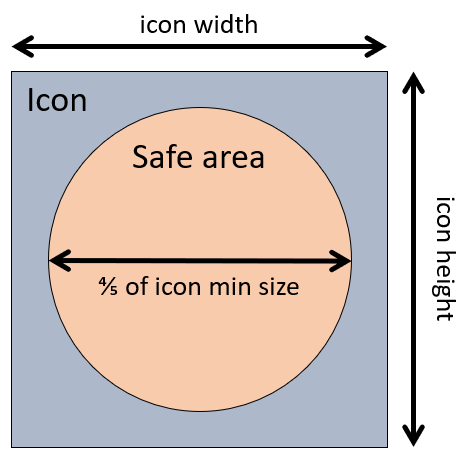
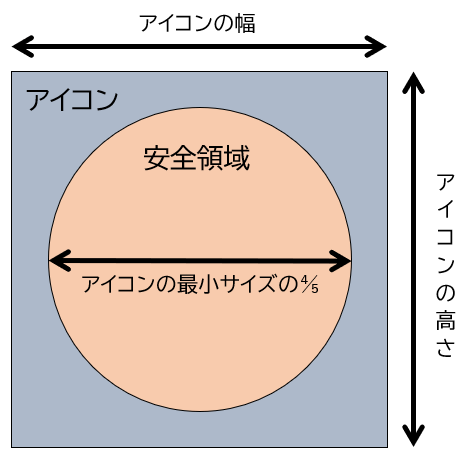
2025/02/22 時点の英語版に同期

diff --git a/files/ja/web/progressive_web_apps/how_to/define_app_icons/index.md b/files/ja/web/progressive_web_apps/how_to/define_app_icons/index.md
@@ -1,48 +1,49 @@
 ---
-title: Define your app icons
+title: アプリのアイコンを定義する
 slug: Web/Progressive_web_apps/How_to/Define_app_icons
-page-type: how-to
+l10n:
+  sourceCommit: 05187b0fecf39b9176d4a101623589309cf44dd0
 ---
 
 {{PWASidebar}}
 
-[Progressive Web Apps (PWAs)](/en-US/docs/Web/Progressive_web_apps) can be installed on devices just like other apps. Once a PWA is installed, its app icon appears on the device's home screen, dock, taskbar, or any other place where operating system native apps normally appear.
+[プログレッシブウェブアプリ (PWA)](/ja/docs/Web/Progressive_web_apps) は、他のアプリと同じように端末にインストールできます。PWA をインストールすると、そのアプリアイコンが端末のホーム画面、ドック、タスクバー、またはオペレーティングシステムのネイティブアプリが通常表示される他の場所に表示されます。
 
-For example, on Windows, the taskbar can contain icons for both native and PWA apps side by side:
+例えば、 Windows では、タスクバーにネイティブアプリと PWA アプリのアイコンを並べて表示できます。
 
-![The taskbar on Windows, showing the usual Windows icons, and then icons for Firefox and Word, which are native apps, but also icons for Spotify and PWAmp, which are PWAs](./windows-taskbar.png)
+![Windows のタスクバーには、通常の Windows アイコンが表示され、その下に Firefox と Word のアイコン（ネイティブアプリ）が表示されます。さらに、 PWA である Spotify と PWAmp のアイコンも表示されています。](./windows-taskbar.png)
 
-When creating a PWA, you can define your own set of icons to be used when the app is installed on a device. This article explains how to define your own app icons, which icon sizes to create, and how to make your icons support masking.
+PWA を作成する際、端末にアプリがインストールされた際に使用される独自のアイコンのセットを定義できます。この記事では、独自のアプリアイコンを定義する方法、作成するアイコンのサイズ、およびアイコンをマスク機能に対応させる方法について説明します。
 
 > [!NOTE]
-> The PWA app icon is not the same as the {{glossary("favicon")}} image, which is displayed in places like the browser's address bar. PWAs can have both a favicon and an app icon. To learn more about favicons, see [Adding custom icons to your site](/en-US/docs/Learn_web_development/Core/Structuring_content/Webpage_metadata#adding_custom_icons_to_your_site).
+> PWA のアプリアイコンは、ブラウザーのアドレスバーなどに表示される{{glossary("favicon", "ファビコン")}}画像とは異なります。 PWA は、ファビコンとアプリアイコンの両方を設定できます。ファビコンについて詳しくは、「[サイトに独自のアイコンを追加](/ja/docs/Learn_web_development/Core/Structuring_content/Webpage_metadata#サイトに自分の好きなアイコンを追加)」を参照してください。
 
-## Design your icon
+## アイコンをデザインする
 
-The first step in defining your app icon is to design it.
+アプリアイコンを定義する最初のステップは、そのデザインを作成することです。
 
-Most users recognize applications by their icons. Icons appear in many places through the operating system, including the home screen, taskbar, app launcher, or setting panels. Make sure your users can easily find your app by making its icon both visually appealing, and representative of your application.
+ほとんどのユーザーは、アプリケーションをアイコンで認識します。アイコンは、ホーム画面、タスクバー、アプリランチャー、設定パネルなど、オペレーティングシステム内のさまざまな場所に表示されます。ユーザーがアプリケーションを簡単に探せるように、アイコンを視覚的に魅力的で、かつアプリケーションを適切に表すものにするようにしてください。
 
-The image should have a transparent background so it can be displayed on a variety of backgrounds. It should be at least 1024x1024 pixels, or scalable to that size, as this is the largest size your icon may be displayed at. You may also want to create icon versions with fewer details, to be used in places where the icon is displayed at smaller sizes.
+画像の背景は透明にしましょう。これにより、さまざまな背景の上に表示することができます。サイズは 1024x1024 ピクセル以上、またはそのサイズに拡大可能なものにしましょう。これは、アイコンが最大で表示されるサイズです。また、アイコンが小さなサイズで表示される場合に使用するため、詳細を省いたバージョンを作成することをおすすめします。
 
-Designing your icon as an SVG file is a good idea, as this will allow it to be scaled to any size without loss of quality.
+アイコンを SVG ファイルでデザインするのもいいでしょう。そうすれば、品質を損なうことなく任意のサイズに拡大縮小することが可能です。
 
-## Reference your icons in the web app manifest
+## アイコンをウェブアプリマニフェストから参照する
 
-Use the [`icons`](/en-US/docs/Web/Progressive_web_apps/Manifest/Reference/icons) web app manifest member to define a set of icons for your PWA.
+PWA 用のアイコンセットを定義するには、ウェブアプリマニフェストの [`icons`](/ja/docs/Web/Progressive_web_apps/Manifest/Reference/icons) セクションを使用します。
 
-As described in [Create the necessary icon sizes](#create_the_necessary_icon_sizes), you should create multiple versions of your icon to ensure it appears correctly in all the places where it's used. This is why the `icons` member is an array of objects, each of which represents an icon, with its own size, type, and purpose. Each icon object has the following properties:
+「[必要なサイズのアイコンを作成する](#必要なサイズのアイコンを作成する)」で説明しますが、アイコンが使用されるすべての場所で正しく表示されるように、複数のバージョンのアイコンを作成する必要があります。このため、 `icons` メンバーは、それぞれ独自のサイズ、タイプ、目的を持つアイコンを表すオブジェクトの配列になっています。各アイコンオブジェクトには、次のプロパティがあります。
 
 - `src`
-  - : The URL of the icon image file.
+  - : アイコン画像ファイルの URL。
 - `sizes`
-  - : The sizes the icon can be used for.
+  - : このアイコンを使うサイズ。
 - `type`
-  - : The {{Glossary("MIME type")}} of the image file which the operating system can use to quickly ignore images it does not support.
+  - : 画像ファイルの {{Glossary("MIME type", "MIME タイプ")}}。これは、オペレーティングシステムが、対応していない画像を迅速に無視するために使用されます。
 - `purpose`
-  - : The OS-specific purpose of the image.
+  - : この画像の OS 固有の使用目的。
 
-For example, the following web app manifest defines five PNG icons, each with a different size:
+例えば、次のウェブアプリマニフェストでは、サイズが異なる 5 つの PNG アイコンが定義されています。
 
 ```json
 {
@@ -79,21 +80,21 @@ For example, the following web app manifest defines five PNG icons, each with a 
 }
 ```
 
-## Create the necessary icon sizes
+## 必要なサイズのアイコンを作成する
 
-Various operating systems use different icon sizes in different places and for different device capabilities. It's important to create multiple versions of your icon so it appears correctly in all the places where it's used.
+多くのオペレーティングシステムでは、場所や機器の能力が異なると、異なるサイズのアイコンを使用します。アイコンを正しく表示するため、使用されるすべての場所で適切に表示されるように、複数のバージョンを作成することが重要です。
 
-For example, Windows can display your app icon as a 44x44 pixels image in the taskbar, or as a 150x150 pixels image in the start menu. Use the links below for more information about the icon sizes used by different operating systems and tips for creating effective icons:
+例えば、 Windows では、タスクバーにアプリアイコンを 44x44 ピクセルの画像として表示したり、スタートメニューに 150x150 ピクセルの画像として表示したりできます。異なるオペレーティングシステムで利用されるアイコンのサイズに関する詳細情報や、効果的なアイコンの作成に関するヒントについては、以下のリンクを参照してください。
 
-- For Windows, see [Define icons and a theme color](https://learn.microsoft.com/en-us/microsoft-edge/progressive-web-apps-chromium/how-to/icon-theme-color) on learn.microsoft.com.
-- For Android, see [Google Play icon design specifications](https://developer.android.com/distribute/google-play/resources/icon-design-specifications) on developer.android.com.
-- For iOS and macOS, see [App icons](https://developer.apple.com/design/human-interface-guidelines/app-icons#App-icon-sizes) on developer.apple.com.
+- Windows については、[アイコンとテーマの色を定義する](https://learn.microsoft.com/ja-jp/microsoft-edge/progressive-web-apps-chromium/how-to/icon-theme-color) (learn.microsoft.com) を参照してください。
+- Android の場合、 [Google Play アイコンのデザイン仕様](https://developer.android.com/distribute/google-play/resources/icon-design-specifications) (developer.android.com) を参照してください。
+- iOS や macOS については、 [App icons](https://developer.apple.com/design/human-interface-guidelines/app-icons#App-icon-sizes) (developer.apple.com) を参照してください。
 
-The sizes at which your icon is displayed depend on the operating system and may change over time. It's best to test your icon on all the devices and operating systems you want to support, and generate the sizes and image types that lead to the best results. You can also use a tool like [PWA Image Generator](https://www.pwabuilder.com/imageGenerator) to generate the necessary icon sizes for you from a single high-definition image.
+アイコンの表示サイズは、オペレーティングシステムによって異なり、時間経過とともに変更される場合があります。対応するすべての端末とオペレーティングシステムでアイコンをテストし、最適な結果を得るためのサイズと画像形式を生成することをおすすめします。また、 [PWA Image Generator](https://www.pwabuilder.com/imageGenerator) のようなツールを使用すると、単一の高解像度画像から必要なサイズのアイコンを生成できます。
 
-Note that some operating systems support [SVG](/en-US/docs/Web/SVG) icons which can help reduce the number of images you need to create since SVG can be scaled to any size automatically. If your SVG icon doesn't scale down to small sizes nicely, creating additional icons with fewer details and less complexity may be necessary. To support all OSs and small sizes, create PNG versions of your icon as well.
+一部のオペレーティングシステムでは、 [SVG](/ja/docs/Web/SVG) アイコンが対応しています。 SVG は自動的に任意のサイズに拡大縮小できるため、作成する必要のある画像の数を削減できます。ただし、 SVG アイコンが小さなサイズに適切に縮小されない場合は、細部を省略し、簡略化したアイコンを追加で作成する必要がある場合があります。すべてのオペレーティングシステムと小さなサイズに対応するため、アイコンの PNG バージョンも作成してください。
 
-The following web app manifest example uses a WebP image for the small icon, an ICO image for medium size icons, and a scalable SVG image for higher resolution icons:
+以下のウェブアプリ マニフェストの例では、小さなアイコンに WebP 画像、中サイズのアイコンに ICO 画像、高解像度アイコンに拡大縮小可能な SVG 画像を使用しています。
 
 ```json
 {
@@ -118,19 +119,19 @@ The following web app manifest example uses a WebP image for the small icon, an 
 }
 ```
 
-Learn more about how to reference the various icon sizes in [Reference your icons in the web app manifest](#reference_your_icons_in_the_web_app_manifest).
+ウェブアプリの[マニフェストでアイコンを参照する方法](#アイコンをウェブアプリマニフェストから参照する)について、詳細はこちらをご覧ください。
 
-## Support masking
+## マスクの対応
 
-Depending on the operating system and the device capabilities, a mask may be applied to your icon to match a particular shape. Maskable icons are adaptive icons that can be displayed in a variety of shapes that operating systems provide. For example, on Android, app icons can have a circular mask.
+オペレーティングシステムと端末の機能に応じて、アイコンにマスクが適用され、特定の形状に合わせることができます。マスク可能なアイコンは、オペレーティングシステムが提供するさまざまな形状で表示できるアダプティブアイコンです。例えば、 Android では、アプリアイコンに円形のマスクを適用できます。
 
-Your PWA app icon should specifically support masking to look well integrated with operating systems that apply masks. Icons that do not support masking may appear cropped or smaller than expected. On Android, non-maskable icons are centered within the circular mask and given a white background, which may not look good with your icon.
+PWA アプリのアイコンは、マスクに対応している必要があります。これにより、マスクを採用しているオペレーティングシステムでは、統合された見た目を実現できます。マスクに対応していないアイコンは、切り取られたり、予想より小さく表示されたりする可能性があります。 Android では、マスク非対応のアイコンが円形のマスクの中心に配置され、白い背景が適用されます。これにより、アイコンの見た目が不自然になる可能性があります。
 
-The following image illustrates the difference between a maskable and a non-maskable icon on Android:
+以下の画像は、 Android におけるマスク可能なアイコンとマスク不可能なアイコンの違いを説明しています。
 
-![A non-maskable icon on the left, as a small square within the app icon circle. A maskable icon on the right, filling in the entire app icon circle](./maskable-icon-comparison.png)
+![左側にマスク不可のアイコンを、アプリアイコンの円形領域内に小さな四角形として表示します。右側にマスク可能なアイコンを、アプリアイコンの円形領域全体を埋めるように表示します。](./maskable-icon-comparison.png)
 
-To start making your app icon maskable, use the `purpose` property in the icon objects of your web app manifest, and set its value to `maskable`. For example:
+アプリアイコンをマスク可能にするには、ウェブアプリマニフェストのアイコンオブジェクト内の `purpose` プロパティを使用し、その値を `maskable` に設定します。例えば、
 
 ```json
 {
@@ -145,22 +146,22 @@ To start making your app icon maskable, use the `purpose` property in the icon o
 }
 ```
 
-Using the `purpose` property is just the last step in making your icon maskable. You need to start by making sure your icon looks well integrated with the host operating system by ensuring the important parts of the icon appear well within the mask's _safe zone_.
+`purpose` プロパティを使用することは、アイコンをマスク可能にするための最後のステップです。まず最初に、アイコンがホストオペレーティングシステムとよく統合されていることを確認する必要があります。そのためには、アイコンの重要な部分がマスクの「安全領域」内に適切に表示されるようにする必要があります。
 
-The safe zone is the area that's guaranteed to always be visible when the mask is applied and is defined as a circle which diameter is 80% of the icon's minimum dimension.
+安全領域は、マスクを適用した際に常に表示されることが保証された領域であり、アイコンの最小寸法（最小幅または最小高さ）の 80% を直径とする円として定義されます。
 
-![Illustration of the safe area within a maskable icon](./maskable-icon-safe-area.png)
+![マスク可能なアイコンの中のセーフゾーンの説明](./maskable-icon-safe-area.png)
 
-For example, if your icon is a square, make sure that the square is entirely visible within the safe zone and that its corners are not cut off.
+例えば、アイコンが正方形の場合、その正方形が安全領域内に完全に表示され、角が切れないようにしてください。
 
-Finally, give your maskable icon an opaque background color to fill the entire icon area.
+最後に、マスク可能なアイコンに不透明な背景色を適用し、アイコン領域全体を塗りつぶします。
 
-You can also use tools like [Maskable.app](https://maskable.app/) to preview how your icon will look when masked on different operating systems.
+[Maskable.app](https://maskable.app/) のようなツールを使用すると、様々なオペレーティングシステムでマスクされた際のアイコンの表示を確認できます。
 
-## See also
+## 関連情報
 
-- [`icons` manifest member](/en-US/docs/Web/Progressive_web_apps/Manifest/Reference/icons)
-- [App design](https://web.dev/learn/pwa/app-design#the_icon) on web.dev
-- [Adaptive icon support in PWAs with maskable icons](https://web.dev/articles/maskable-icon) on web.dev
-- [Define icons and a theme color](https://learn.microsoft.com/en-us/microsoft-edge/progressive-web-apps-chromium/how-to/icon-theme-color) on microsoft.com
-- [PWA Image Generator](https://www.pwabuilder.com/imageGenerator) on pwabuilder.com
+- [`icons` マニフェストメンバー](/ja/docs/Web/Progressive_web_apps/Manifest/Reference/icons)
+- [App design](https://web.dev/learn/pwa/app-design#the_icon) (web.dev)
+- [Adaptive icon support in PWAs with maskable icons](https://web.dev/articles/maskable-icon) (web.dev)
+- [アイコンとテーマの色を定義する](https://learn.microsoft.com/ja-jp/microsoft-edge/progressive-web-apps-chromium/how-to/icon-theme-color) (microsoft.com)
+- [PWA Image Generator](https://www.pwabuilder.com/imageGenerator) (pwabuilder.com)

diff --git a/files/ja/web/progressive_web_apps/how_to/expose_common_actions_as_shortcuts/index.md b/files/ja/web/progressive_web_apps/how_to/expose_common_actions_as_shortcuts/index.md
@@ -1,30 +1,31 @@
 ---
-title: Expose common app actions as shortcuts
+title: よくあるアプリ操作をショートカットとして表示する
 slug: Web/Progressive_web_apps/How_to/Expose_common_actions_as_shortcuts
-page-type: how-to
+l10n:
+  sourceCommit: e03b13c7e157ec7b7bb02a6c7c4854b862195905
 ---
 
 {{PWASidebar}}
 
-Many operating systems support showing shortcut menus, or jump-list, when the user right-clicks or long-presses an app icon. For example, on Windows, right-clicking on any pinned program in the taskbar shows a list of program-specific actions and recently opened files:
+多くのオペレーティングシステムには、ユーザーがアプリアイコンを右クリックまたは長押しした際に、ショートカットメニュー（またはジャンプリスト）を表示する機能があります。例えば Windows では、タスクバーにピン留めされたプログラムを右クリックすると、そのプログラム固有のアクションと最近開いたファイルのリストが表示されます。
 
-![The task bar in Windows, showing several pinned apps. The Firefox app icon was right-clicked, and the jump list is displayed, showing frequent tabs and common tasks](./jump-list.png)
+![Windows のタスクバーに、ピン留めされた複数のアプリが表示されています。 Firefox のアプリアイコンを右クリックすると、ジャンプリストが表示され、よく使用するタブと一般的なタスクが表示されます。](./jump-list.png)
 
-On Android, long-pressing an app icon also shows a list of common app actions:
+Androidでは、アプリアイコンを長押しすると、そのアプリでよく使用されるアクションのリストが表示されます。
 
-![The Android app launcher, showing an app icon that's been long-pressed. The shortcut menu is displayed, showing common actions](./android-shortcuts.png)
+![Android のアプリランチャーで、長押しされたアプリアイコンが表示されています。ショートカットメニューが表示され、一般的な操作が表示されています。](./android-shortcuts.png)
 
-[Progressive Web Apps (PWAs)](/en-US/docs/Web/Progressive_web_apps) can be installed on devices just like platform-native apps and, like their native counterparts, they can also define app shortcut menus to let users access common actions.
+[プログレッシブウェブアプリ (PWA)](/ja/docs/Web/Progressive_web_apps) は、プラットフォームのネイティブアプリと同様に端末にインストールでき、ネイティブアプリと同様に、ユーザーが共通のアクションにアクセスできるようにアプリのショートカットメニューを定義することもできます。
 
-Shortcuts are only displayed by right-clicking or long-pressing the app icon, meaning they're only available once the PWA is installed on the user's device. To learn how to make your PWA installable, see [making PWAs installable](/en-US/docs/Web/Progressive_web_apps/Guides/Making_PWAs_installable).
+ショートカットは、アプリアイコンを右クリックまたは長押しした際にのみ表示されます。つまり、 PWA がユーザーのデバイスにインストールされている場合のみ利用可能です。 PWA をインストール可能にする方法については、「[PWA をインストール可能にする](/ja/docs/Web/Progressive_web_apps/Guides/Making_PWAs_installable)」を参照してください。
 
-## Why use shortcuts?
+## なぜショートカットを使うのか
 
-Defining shortcuts for your PWA can make users more productive by letting them access your app's main actions directly from their home screen. Additionally, defining shortcuts can help make your PWA feel more platform-native and therefore more familiar to your users.
+PWA のショートカットを定義することで、ユーザーはホーム画面からアプリの主要なアクションに直接アクセスできるようになり、生産性が向上します。さらに、ショートカットを定義することで、 PWA がプラットフォームにネイティブに統合されたような感覚を与え、ユーザーにとってより親しみやすいものになります。
 
-## Define shortcuts in the web app manifest
+## ウェブアプリのマニフェストでショートカットを定義する
 
-To define shortcuts for your PWA, use the [`shortcuts`](/en-US/docs/Web/Progressive_web_apps/Manifest/Reference/shortcuts) member of the [web app manifest](/en-US/docs/Web/Progressive_web_apps/Manifest). This member is an array of objects defining each shortcut's name and URL, as well as the optional short name, description, and icons. For example, here's the web app manifest of a calendar app that defines two shortcuts:
+PWA のショートカットを定義するには、 [`shortcuts`](/ja/docs/Web/Progressive_web_apps/Manifest/Reference/shortcuts) メンバーを[ウェブアプリマニフェスト](/ja/docs/Web/Progressive_web_apps/Manifest)で使用します。このメンバーは、それぞれのショートカットの名前と URL、およびオプションで短縮名、説明、アイコンを定義するオブジェクトの配列です。例えば、以下のカレンダーアプリのウェブアプリマニフェストでは、 2 つのショートカットが定義されています。
 
 ```json
 {
@@ -51,24 +52,24 @@ To define shortcuts for your PWA, use the [`shortcuts`](/en-US/docs/Web/Progress
 }
 ```
 
-The most important properties of each shortcut object are:
+それぞれのショートカットオブジェクトの最も重要なプロパティは次のとおりです。
 
 - `name`
-  - : The name of the shortcut, which is displayed in the shortcut menu. Make sure to keep it short but also descriptive enough to let users know what the shortcut does.
+  - : ショートカットメニューに表示されるショートカットの名前です。ユーザーがショートカットの機能を理解できるように、短く簡潔ながら十分な説明を入れるようにしてください。
 - `url`
-  - : The URL to launch the PWA with when the user selects the shortcut. This URL can be absolute, in which case it should exist within the [scope](/en-US/docs/Web/Progressive_web_apps/Manifest/Reference/scope) of the web app manifest. The URL can also be relative, in which case it's resolved relative to the PWA's [start URL](/en-US/docs/Web/Progressive_web_apps/Manifest/Reference/start_url).
+  - : ユーザーがショートカットを選択した際に PWA を起動するための URL です。この URL は絶対パスである場合、ウェブアプリマニフェストの[スコープ](/ja/docs/Web/Progressive_web_apps/Manifest/Reference/scope)内に存在する必要があります。 URL は相対パスとしても指定可能で、その場合は PWA の[開始 URL](/ja/docs/Web/Progressive_web_apps/Manifest/Reference/start_url) を基準に解決されます。
 
-All other shortcut object properties are optional, but you should consider providing them to make the shortcut more useful to users:
+それ以外のショートカットオブジェクトのプロパティはすべてオプションですが、ショートカットをより有益なものにするために、これらのプロパティも指定することを検討してください。
 
 - `short_name`
-  - : A short name for the shortcut, which is displayed when there's not enough space to display the full name.
+  - : ショートカットの短縮名。フルネームを表示するスペースがない場合に表示されます。
 - `description`
-  - : A description of the shortcut. This string can be accessed by assistive technologies, such as screen readers, to help users understand what the shortcut does.
+  - : ショートカットの説明。この文字列は、スクリーンリーダーなどの支援技術によってアクセスでき、ユーザーがショートカットの機能を理解するのに役立ちます。
 - `icons`
-  - : An array of image objects to display in the shortcut menu. Each image object is processed just like the [`icons`](/en-US/docs/Web/Progressive_web_apps/Manifest/Reference/icons) member of the web app manifest, and can be used to provide different-sized icons for different device requirements.
+  - : ショートカットメニューに表示する、画像オブジェクトの配列です。それぞれの画像オブジェクトは、ウェブアプリマニフェストの [`icons`](/ja/docs/Web/Progressive_web_apps/Manifest/Reference/icons) メンバーと同じように処理され、さまざまな端末の要件に合わせて異なるサイズのアイコンを提供するために使用することができます。
 
-## See also
+## 関連情報
 
-- [`shortcuts` manifest member](/en-US/docs/Web/Progressive_web_apps/Manifest/Reference/shortcuts)
-- [Get things done quickly with app shortcuts](https://web.dev/articles/app-shortcuts) on web.dev (2022)
-- [Define app shortcuts](https://learn.microsoft.com/en-us/microsoft-edge/progressive-web-apps-chromium/how-to/shortcuts) on learn.microsoft.com (2023)
+- [`shortcuts` マニフェストメンバー](/ja/docs/Web/Progressive_web_apps/Manifest/Reference/shortcuts)
+- [Get things done quickly with app shortcuts](https://web.dev/articles/app-shortcuts) (web.dev, 2022)
+- [アプリのショートカットを定義する](https://learn.microsoft.com/ja-jp/microsoft-edge/progressive-web-apps-chromium/how-to/shortcuts) (learn.microsoft.com, 2023)

diff --git a/files/ja/web/progressive_web_apps/how_to/create_a_standalone_app/index.md b/files/ja/web/progressive_web_apps/how_to/create_a_standalone_app/index.md
@@ -1,20 +1,21 @@
 ---
-title: Create a standalone app
+title: スタンドアロンアプリを作成する
 slug: Web/Progressive_web_apps/How_to/Create_a_standalone_app
-page-type: how-to
+l10n:
+  sourceCommit: 05187b0fecf39b9176d4a101623589309cf44dd0
 ---
 
 {{PWASidebar}}
 
-[Progressive Web Apps](/en-US/docs/Web/Progressive_web_apps) (PWAs) that are installed on a user's device can define how they appear when the user launches them. They can choose to be displayed in a web browser, just like websites, or have their own dedicated windows similar to how OS-native applications work.
+[プログレッシブウェブアプリ](/ja/docs/Web/Progressive_web_apps) (PWA) は、ユーザーの端末にインストールするされ、ユーザーが起動するときの表示方法を定義することができます。ウェブサイトと同じようにウェブブラウザーで表示するか、 OS ネイティブのアプリケーションと同じように専用のウィンドウを表示するかを選択できます。
 
-Users tend to have specific expectations of how installed applications behave on their devices. One of these expectations is that applications have their own dedicated windows.
+ユーザーは、インストールされたアプリケーションが端末上でどのように動作するかについて、特定の期待を持っている傾向があります。そのひとつが、アプリケーションに専用のウィンドウが用意されていることです。
 
-By using the [web app manifest](/en-US/docs/Web/Progressive_web_apps/Manifest)'s [`display`](/en-US/docs/Web/Progressive_web_apps/Manifest/Reference/display) member, you can define whether the installed PWA is displayed in a browser or has its own dedicated window when the PWA is launched from the user's device.
+[ウェブアプリマニフェスト](/ja/docs/Web/Progressive_web_apps/Manifest)の [`display`](/ja/docs/Web/Progressive_web_apps/Manifest/Reference/display) メンバーを使用することで、インストールされた PWA がユーザーの端末で起動されたときに、ブラウザーで表示されるか、独自の専用のウインドウで表示されるかを定義することができます。
 
-## Use the standalone display mode
+## standalone 画面モード
 
-To use a standalone display mode and give your PWA its own dedicated window, add the [`display`](/en-US/docs/Web/Progressive_web_apps/Manifest/Reference/display) member to your [web app manifest](/en-US/docs/Web/Progressive_web_apps/Manifest) and set its value to `standalone`:
+standalone 画面モードを使用して、 PWA を独自の専用のウィンドウを与えるには、 [`display`](/ja/docs/Web/Progressive_web_apps/Manifest/Reference/display) メンバーを[ウェブアプリマニフェスト](/ja/docs/Web/Progressive_web_apps/Manifest)に設定し、値を `standalone` に設定します。
 
 ```json
 {
@@ -31,23 +32,23 @@ To use a standalone display mode and give your PWA its own dedicated window, add
 }
 ```
 
-Note that there are other display modes available, such as `browser`, `minimal-ui`, and `fullscreen`. The display mode you choose changes how much of the browser user interface is shown to the user, from showing all of it, to having your own dedicated window. To learn more about all the available display mode and about how they fallback when one is not supported, see the documentation about the [`display`](/en-US/docs/Web/Progressive_web_apps/Manifest/Reference/display) member.
+なお、表示モードは他にも `browser`, `minimal-ui`, `fullscreen` などがあります。選択した表示モードによって、ブラウザーのユーザーインターフェイスがユーザーに表示される範囲が変わります。利用可能なすべての表示モードと、対応していない場合にどのように代替されるかについては、 [`display`](/ja/docs/Web/Progressive_web_apps/Manifest/Reference/display) メンバーに関するドキュメントを参照してください。
 
-## Best practices
+## ベストプラクティス
 
-### Handle multi-page navigation
+### 複数ページナビゲーションの扱い
 
-If your application is built using several navigable HTML pages, make sure to include UI elements for controlling navigation within your application.
+ナビゲーション可能な複数の HTML ページを使用してアプリケーションを構築する場合は、アプリケーション内のナビゲーションを制御するための UI 要素を含めるようにしてください。
 
-If you don't have your own navigation elements, use the `minimal-ui` display mode to make sure users can still go between pages using previous and next buttons rendered by the browser in your app's title bar.
+独自のナビゲーション要素を持っていない場合は、 `minimal-ui` 表示モードを使用して、ユーザーがアプリのタイトルバーにあるブラウザーによってレンダリングされた「前へ」と「次へ」のボタンを使ってページ間を移動できるようにしてください。
 
-## Customize your app depending on the display mode
+## 表示モードに応じてアプリをカスタマイズ
 
-When you define a display mode other than `browser` in your web app manifest, it only applies when the application is installed. Like any other webpage, a manifest's `display` member has no effect when the PWA is not installed. You can check the display mode at runtime to detect if the app is installed or not.
+ウェブアプリのマニフェストで `browser` 以外の表示モードを定義した場合、それはアプリケーションがインストールされているときにのみ適用されます。他のウェブページと同様に、マニフェストの `display` メンバーは、 PWA がインストールされていないときには何の効果もありません。アプリがインストールされているかどうかを検出するために、実行時に表示モードをチェックすることができます。
 
-Using the CSS {{cssxref("@media/display-mode", "display-mode")}} media feature or the {{domxref("Window.matchMedia()")}} JavaScript feature, you can selectively apply CSS styles or run JavaScript code in your app based on its display mode.
+CSS の {{cssxref("@media/display-mode", "display-mode")}} メディア機能または JavaScript の {{domxref("Window.matchMedia()")}} 機能を使用すると、表示モードに基づいて選択的に CSS スタイルを適用したり、アプリで JavaScript コードを実行したりできます。
 
-Here is an example showing how to use the {{cssxref("@media")}} CSS at-rule to only reveal an element on a webpage when the `standalone` display mode is enabled:
+以下は、 CSS の {{cssxref("@media")}} アットルールを使用して、 `standalone` 表示モードが有効な場合にのみウェブページ上の要素を表示する方法を示す例です。
 
 ```css
 .app-button {
@@ -61,9 +62,9 @@ Here is an example showing how to use the {{cssxref("@media")}} CSS at-rule to o
 }
 ```
 
-In this example, the `.app-button` element will be hidden by default unless the display mode is set to `standalone`, which happens if the `display` manifest member was set to `standalone` and the app is installed on the user's device.
+この例では、`.app-button` 要素は、表示モードが `standalone` に設定されない限り、既定で非表示になります。これは、 `display` マニフェストメンバーが `standalone` に設定され、アプリがユーザーの端末にインストールされている場合に発生します。
 
-Here is another example showing how to use the {{domxref("window.matchMedia()")}} method to detect if the `standalone` display mode is enabled:
+次の例は、 {{domxref("window.matchMedia()")}} メソッドを使って、 `standalone` 表示モードが有効かどうかを検出する方法を示す別の例です。
 
 ```js
 function isStandaloneApp() {
@@ -71,8 +72,8 @@ function isStandaloneApp() {
 }
 ```
 
-## See also
+## 関連情報
 
-- [Web App Manifests](/en-US/docs/Web/Progressive_web_apps/Manifest).
+- [ウェブアプリマニフェスト](/ja/docs/Web/Progressive_web_apps/Manifest).
 - [Display modes](https://web.dev/learn/pwa/app-design/#display_modes).
-- Customize your app's title bar on desktop operating systems by using the [Window Controls Overlay API](/en-US/docs/Web/API/Window_Controls_Overlay_API).
+- [ウィンドウコントロールオーバーレイ API](/ja/docs/Web/API/Window_Controls_Overlay_API) を使用して、デスクトップ OS 上のアプリのタイトルバーをカスタマイズできます。
